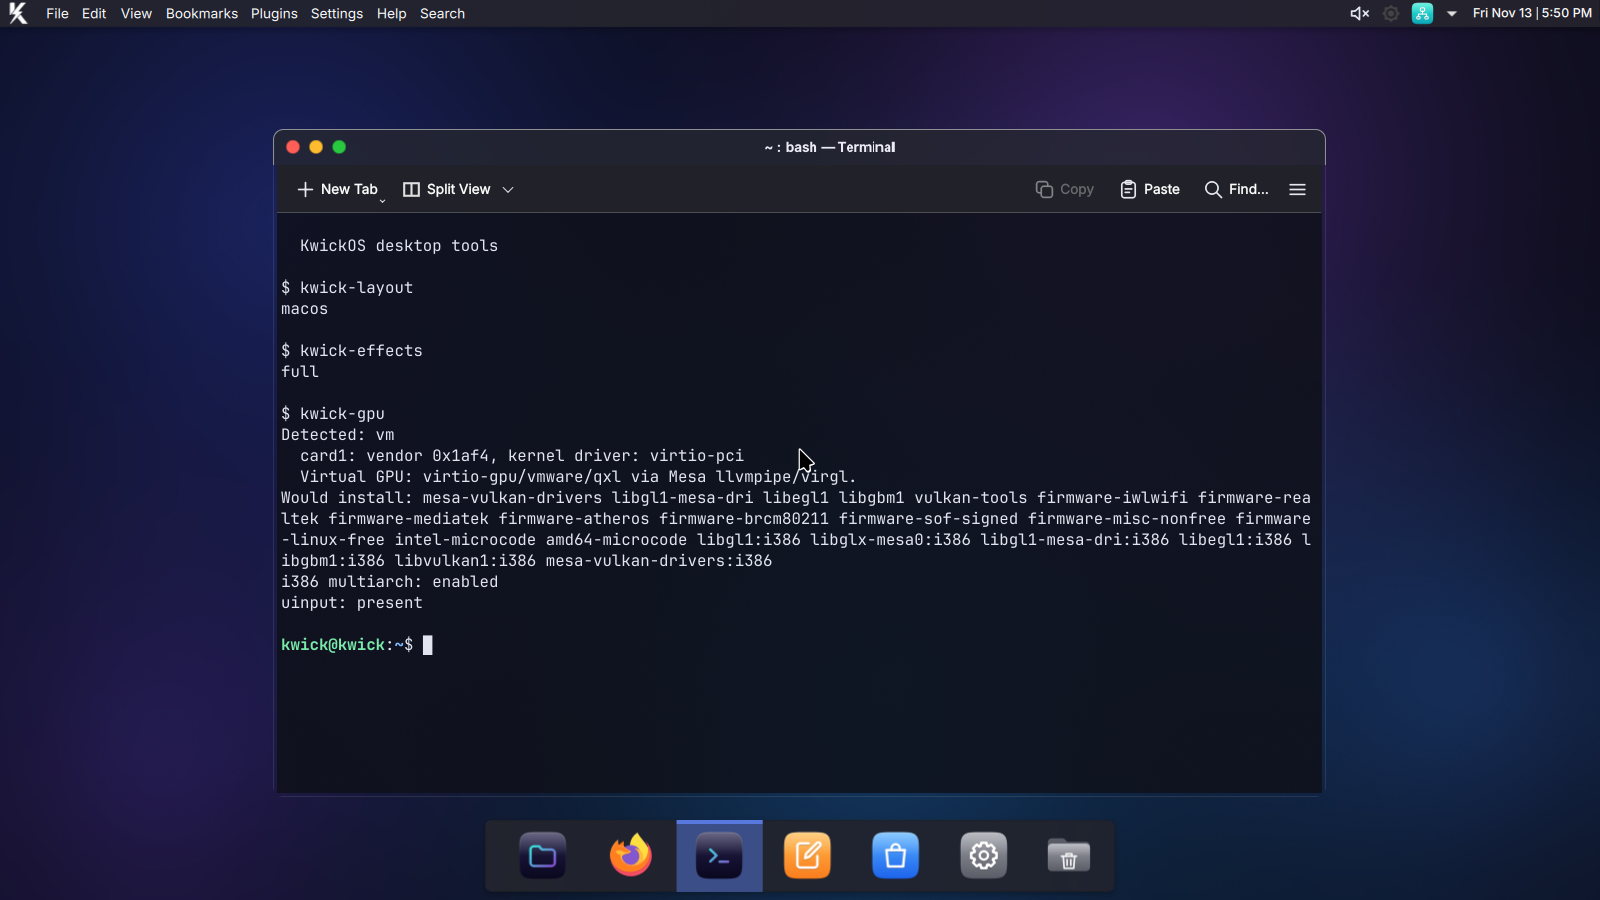
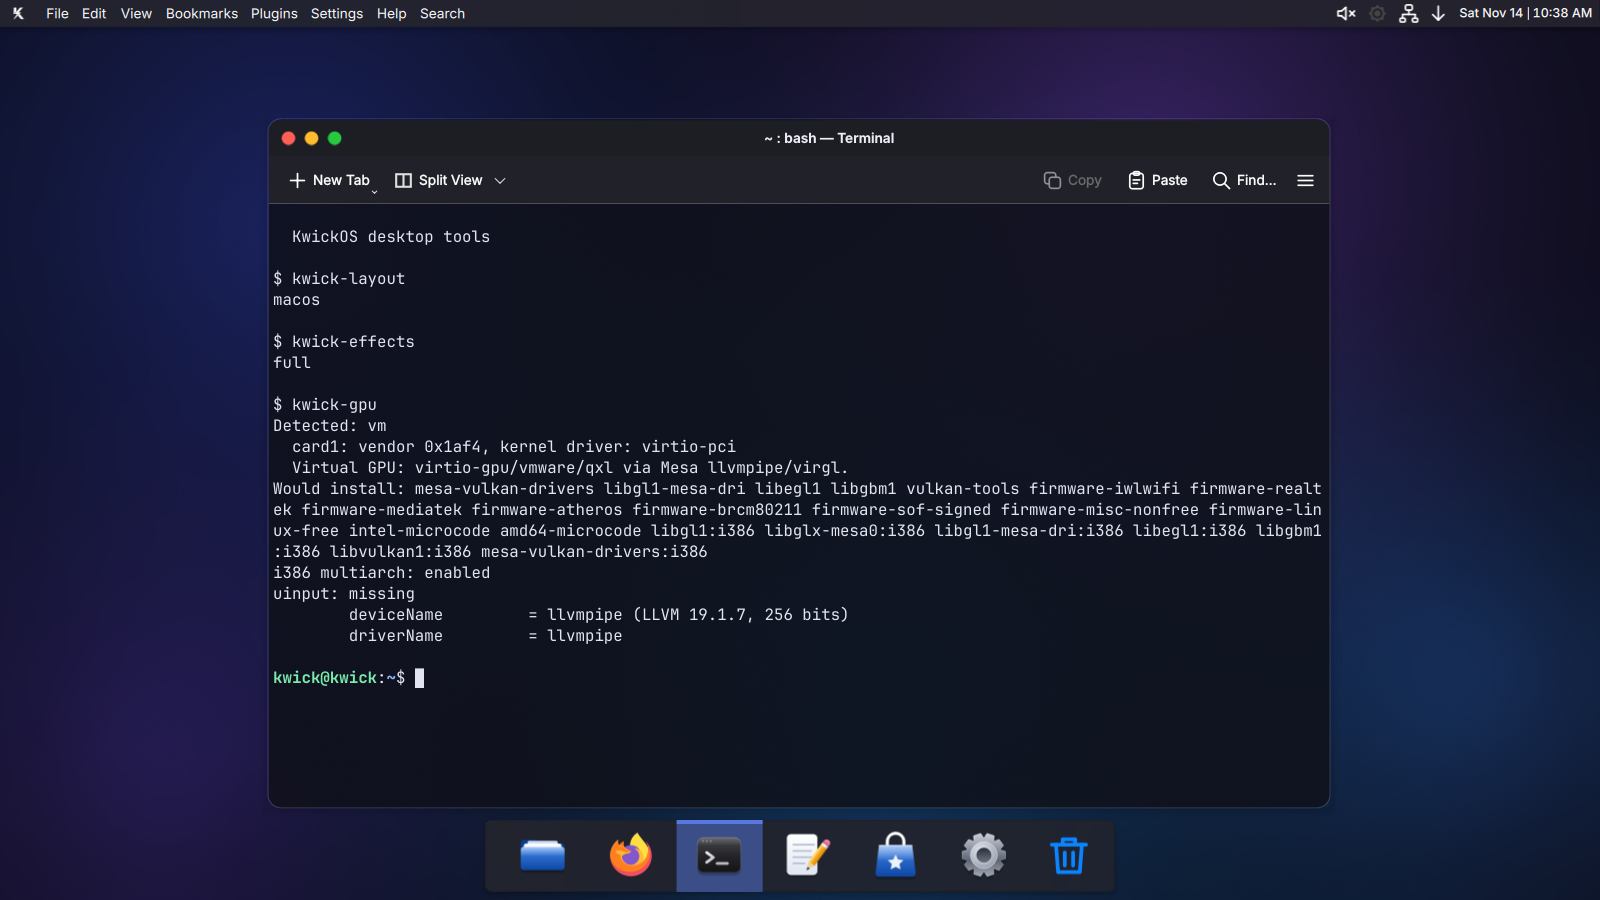
desktop: window shadow follows the rounded corners; recapture every README and site screenshot

diff --git a/desktop/gen-theme.py b/desktop/gen-theme.py
@@ -72,34 +72,44 @@ def svg_rect_path(x, y, wd, ht, rtl=0, rtr=0, fill="#000", op=1.0):
 def aurorae(name, title_h, border, radius, bar_a, bar_i, edge, buttons, btn_w, btn_h, spacing, margin_top,
             align, text_a, text_i):
     parts = ['<svg xmlns="http://www.w3.org/2000/svg" width="640" height="320" viewBox="0 0 640 320">']
-    pad = 10
+    pt, ps, pb = 6, 10, 14
     defs = ""
+    q = ((0, 0.0), (0.3, 0.12), (0.6, 0.42), (1, 1.0))
+    T = title_h
     for pi, (prefix, y, bar) in enumerate((("decoration", 0, bar_a), ("decoration-inactive", 60, bar_i))):
         col, op = bar
-        a = 0.26 if pi == 0 else 0.14
         k = f"{pi}"
+        a = 0.15 if pi == 0 else 0.08
+
+        def stops(rev=False):
+            pts = [(1 - o, v) for o, v in reversed(q)] if rev else list(q)
+            return "".join(f'<stop offset="{o}" stop-color="#000" stop-opacity="{a * v:.4f}"/>' for o, v in pts)
+
+        def rstops():
+            pts = [(1 - o, v) for o, v in reversed(q)]
+            return "".join(f'<stop offset="{o}" stop-color="#000" stop-opacity="{a * v:.4f}"/>' for o, v in pts)
+
         defs += (
-            f'<linearGradient id="gl{k}" x1="0" y1="0" x2="1" y2="0"><stop offset="0" stop-color="#000" stop-opacity="0"/><stop offset="1" stop-color="#000" stop-opacity="{a}"/></linearGradient>'
-            f'<linearGradient id="gr{k}" x1="0" y1="0" x2="1" y2="0"><stop offset="0" stop-color="#000" stop-opacity="{a}"/><stop offset="1" stop-color="#000" stop-opacity="0"/></linearGradient>'
-            f'<linearGradient id="gt{k}" x1="0" y1="0" x2="0" y2="1"><stop offset="0" stop-color="#000" stop-opacity="0"/><stop offset="1" stop-color="#000" stop-opacity="{a}"/></linearGradient>'
-            f'<linearGradient id="gb{k}" x1="0" y1="0" x2="0" y2="1"><stop offset="0" stop-color="#000" stop-opacity="{a}"/><stop offset="1" stop-color="#000" stop-opacity="0"/></linearGradient>'
+            f'<linearGradient id="gl{k}" x1="0" y1="0" x2="1" y2="0">{stops()}</linearGradient>'
+            f'<linearGradient id="gr{k}" x1="0" y1="0" x2="1" y2="0">{stops(True)}</linearGradient>'
+            f'<linearGradient id="gt{k}" x1="0" y1="0" x2="0" y2="1">{stops()}</linearGradient>'
+            f'<linearGradient id="gb{k}" x1="0" y1="0" x2="0" y2="1">{stops(True)}</linearGradient>'
         )
-        for nm, cx, cy in (("rtl", pad, pad), ("rtr", 0, pad), ("rbl", pad, 0), ("rbr", 0, 0)):
-            defs += f'<radialGradient id="{nm}{k}" gradientUnits="userSpaceOnUse" cx="{cx}" cy="{cy}" r="{pad}"><stop offset="0" stop-color="#000" stop-opacity="{a}"/><stop offset="1" stop-color="#000" stop-opacity="0"/></radialGradient>'
-        T = title_h
-        tl = f'<rect x="0" y="0" width="{pad}" height="{pad}" fill="url(#rtl{k})"/><rect x="0" y="{pad}" width="{pad}" height="{T}" fill="url(#gl{k})"/>'
-        tp = f'<rect x="0" y="0" width="8" height="{pad}" fill="url(#gt{k})"/>{svg_rect_path(0, pad, 8, T, fill=col, op=op)}'
-        tr = f'<rect x="0" y="0" width="{pad}" height="{pad}" fill="url(#rtr{k})"/><rect x="0" y="{pad}" width="{pad}" height="{T}" fill="url(#gr{k})"/>'
+        for nm, cx, cy, sx, sy in (("rtl", ps, pt, ps, pt), ("rtr", 0, pt, ps, pt), ("rbl", ps, 0, ps, pb), ("rbr", 0, 0, ps, pb)):
+            defs += f'<radialGradient id="{nm}{k}" gradientUnits="userSpaceOnUse" cx="0" cy="0" r="1" gradientTransform="translate({cx} {cy}) scale({sx} {sy})">{rstops()}</radialGradient>'
+        tl = f'<rect x="0" y="0" width="{ps}" height="{pt}" fill="url(#rtl{k})"/><rect x="0" y="{pt}" width="{ps}" height="{T}" fill="url(#gl{k})"/>'
+        tp = f'<rect x="0" y="0" width="8" height="{pt}" fill="url(#gt{k})"/>{svg_rect_path(0, pt, 8, T + 1, fill=col, op=op)}'
+        tr = f'<rect x="0" y="0" width="{ps}" height="{pt}" fill="url(#rtr{k})"/><rect x="0" y="{pt}" width="{ps}" height="{T}" fill="url(#gr{k})"/>'
         pieces = {
             "topleft": (0, tl),
             "top": (30, tp),
             "topright": (60, tr),
-            "left": (90, f'<rect width="{pad}" height="8" fill="url(#gl{k})"/>'),
+            "left": (90, f'<rect width="{ps}" height="8" fill="url(#gl{k})"/>'),
             "center": (110, '<rect width="8" height="8" fill="#000" fill-opacity="0"/>'),
-            "right": (130, f'<rect width="{pad}" height="8" fill="url(#gr{k})"/>'),
-            "bottomleft": (150, f'<rect width="{pad}" height="{pad}" fill="url(#rbl{k})"/>'),
-            "bottom": (170, f'<rect width="8" height="{pad}" fill="url(#gb{k})"/>'),
-            "bottomright": (190, f'<g><rect width="{pad}" height="{pad}" fill="url(#rbr{k})"/></g>'),
+            "right": (130, f'<rect width="{ps}" height="8" fill="url(#gr{k})"/>'),
+            "bottomleft": (150, f'<rect width="{ps}" height="{pb}" fill="url(#rbl{k})"/>'),
+            "bottom": (170, f'<rect width="8" height="{pb}" fill="url(#gb{k})"/>'),
+            "bottomright": (190, f'<rect width="{ps}" height="{pb}" fill="url(#rbr{k})"/>'),
         }
         for nm, (x, body) in pieces.items():
             parts.append(f'<g id="{prefix}-{nm}"><g transform="translate({x},{y})">{body}</g></g>')
@@ -145,10 +155,10 @@ ButtonHeight={btn_h}
 ButtonSpacing={spacing}
 ButtonMarginTop={margin_top}
 ExplicitButtonSpacer=6
-PaddingTop={pad}
-PaddingLeft={pad}
-PaddingRight={pad}
-PaddingBottom={pad}
+PaddingTop={pt}
+PaddingLeft={ps}
+PaddingRight={ps}
+PaddingBottom={pb}
 """)
     w(f"{d}/metadata.json", json.dumps({"KPlugin": {"Id": name, "Name": name, "Description": "KwickOS window decoration",
                                                       "Authors": [{"Name": "KwickOS"}], "License": "MIT"}}, indent=2) + "\n")
